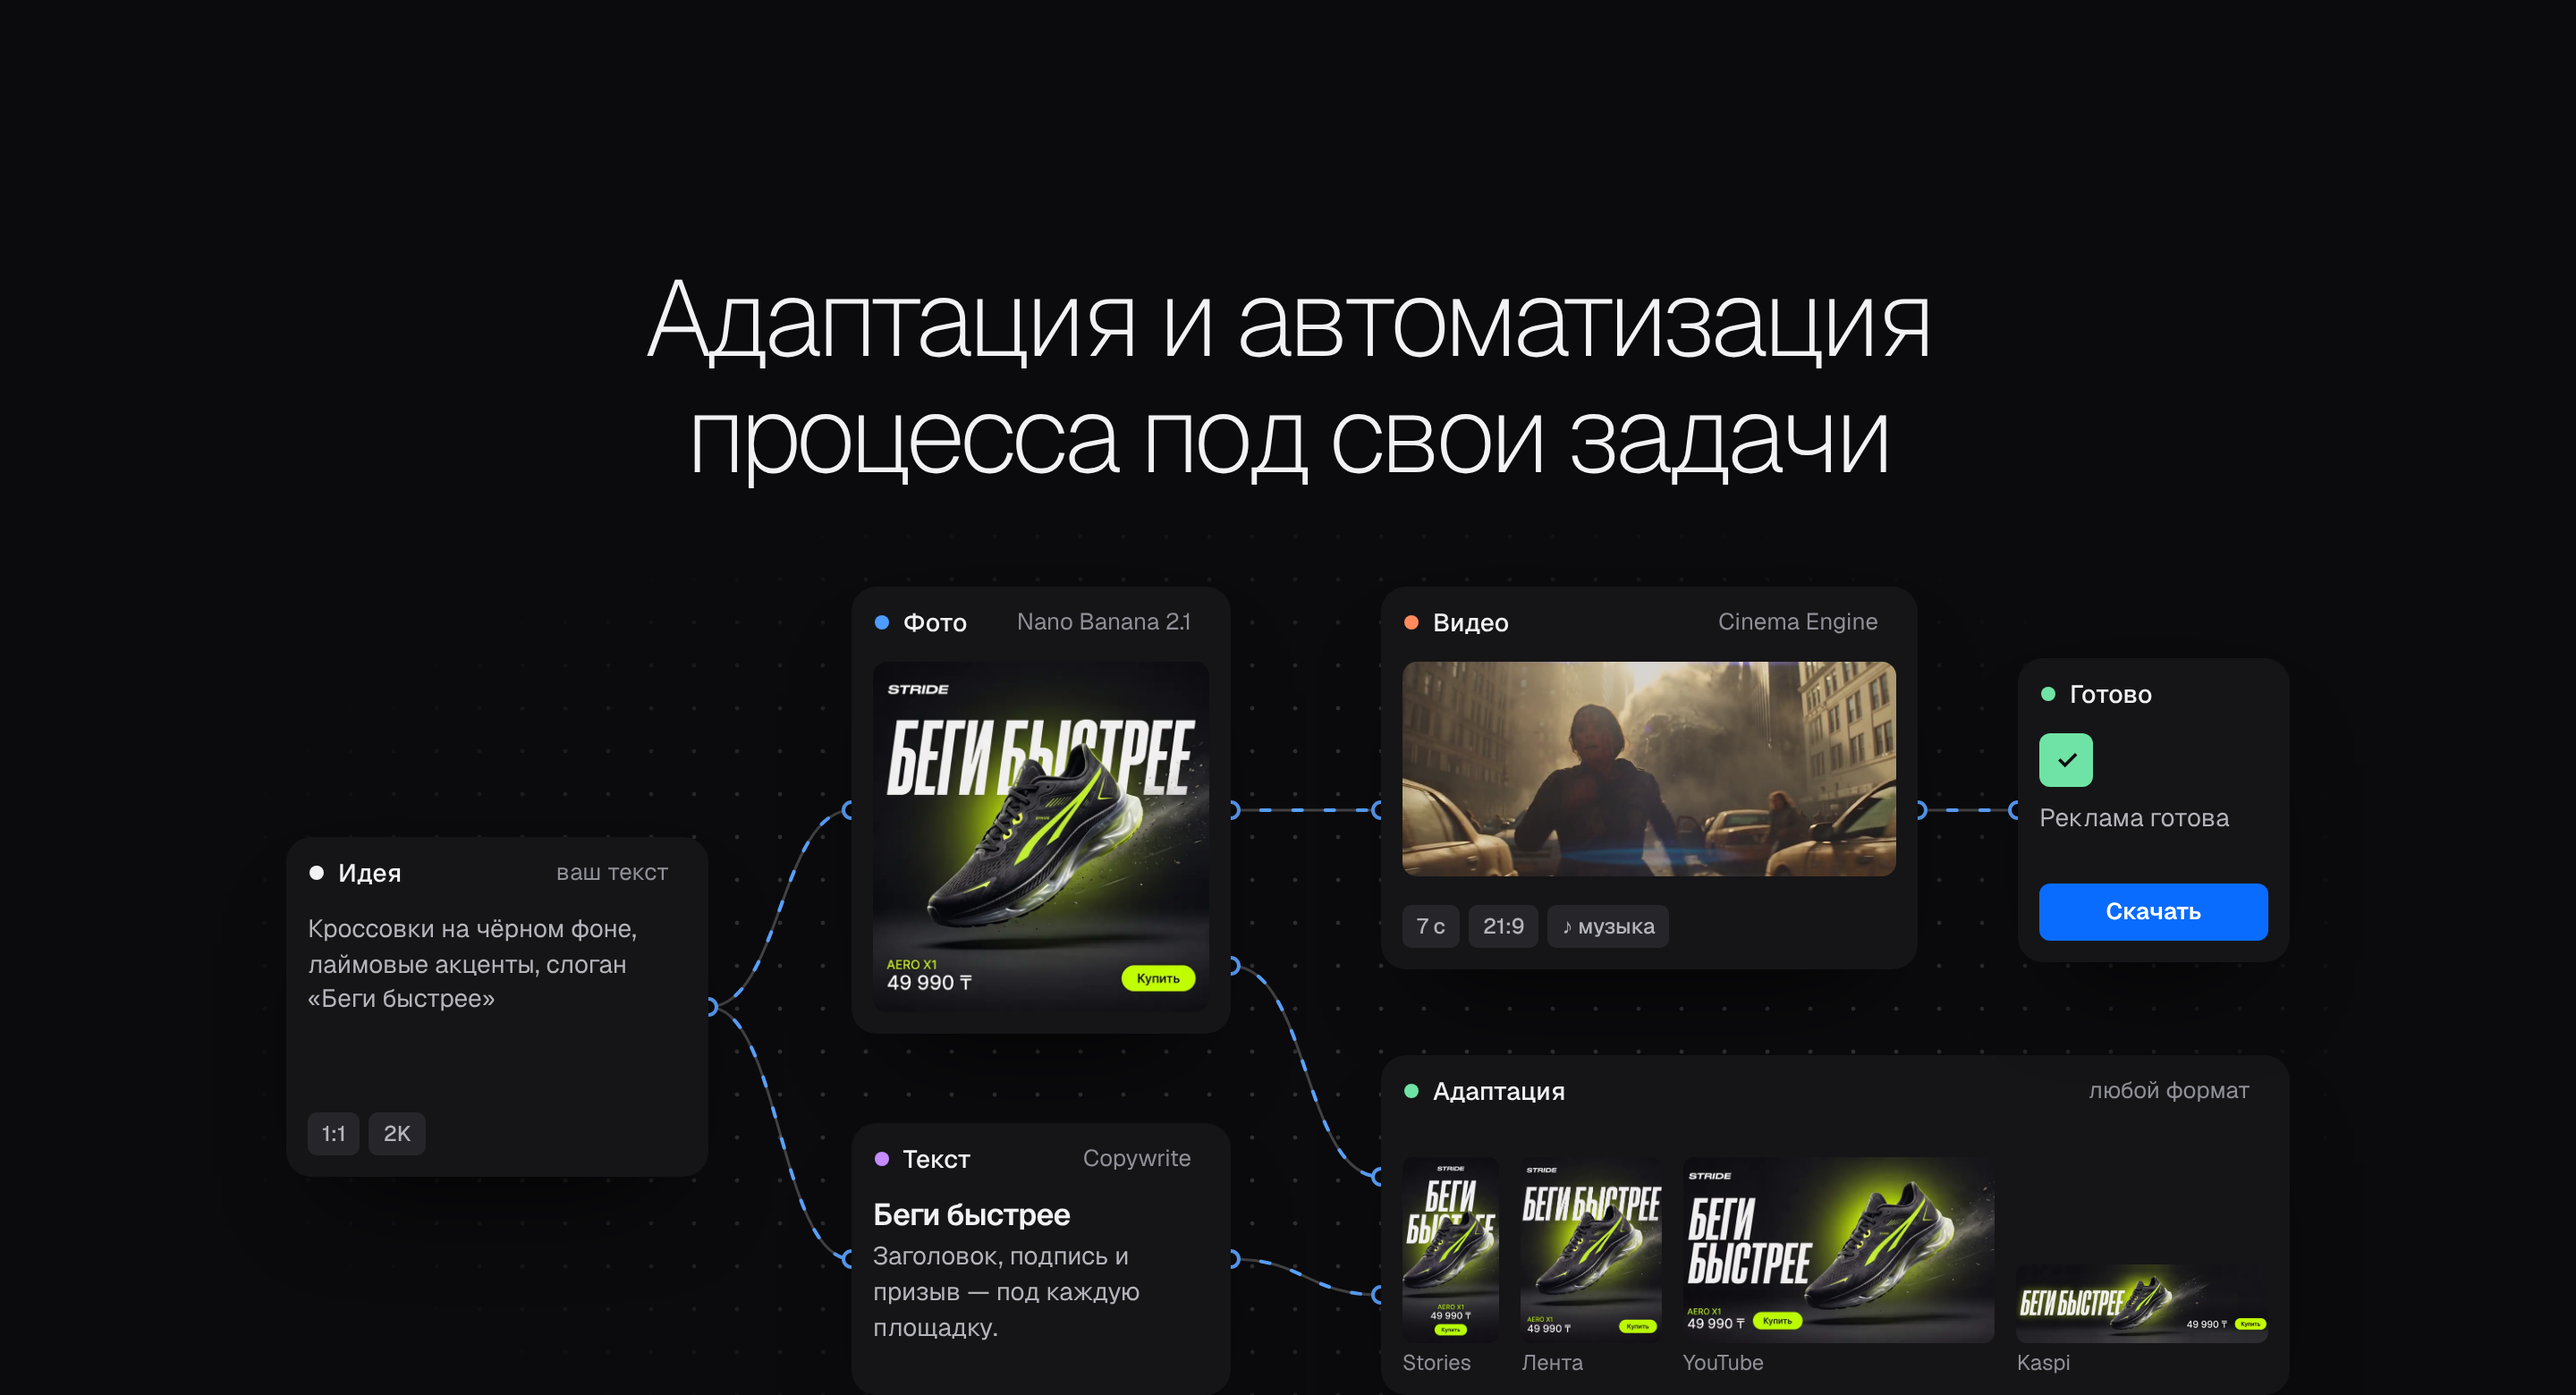
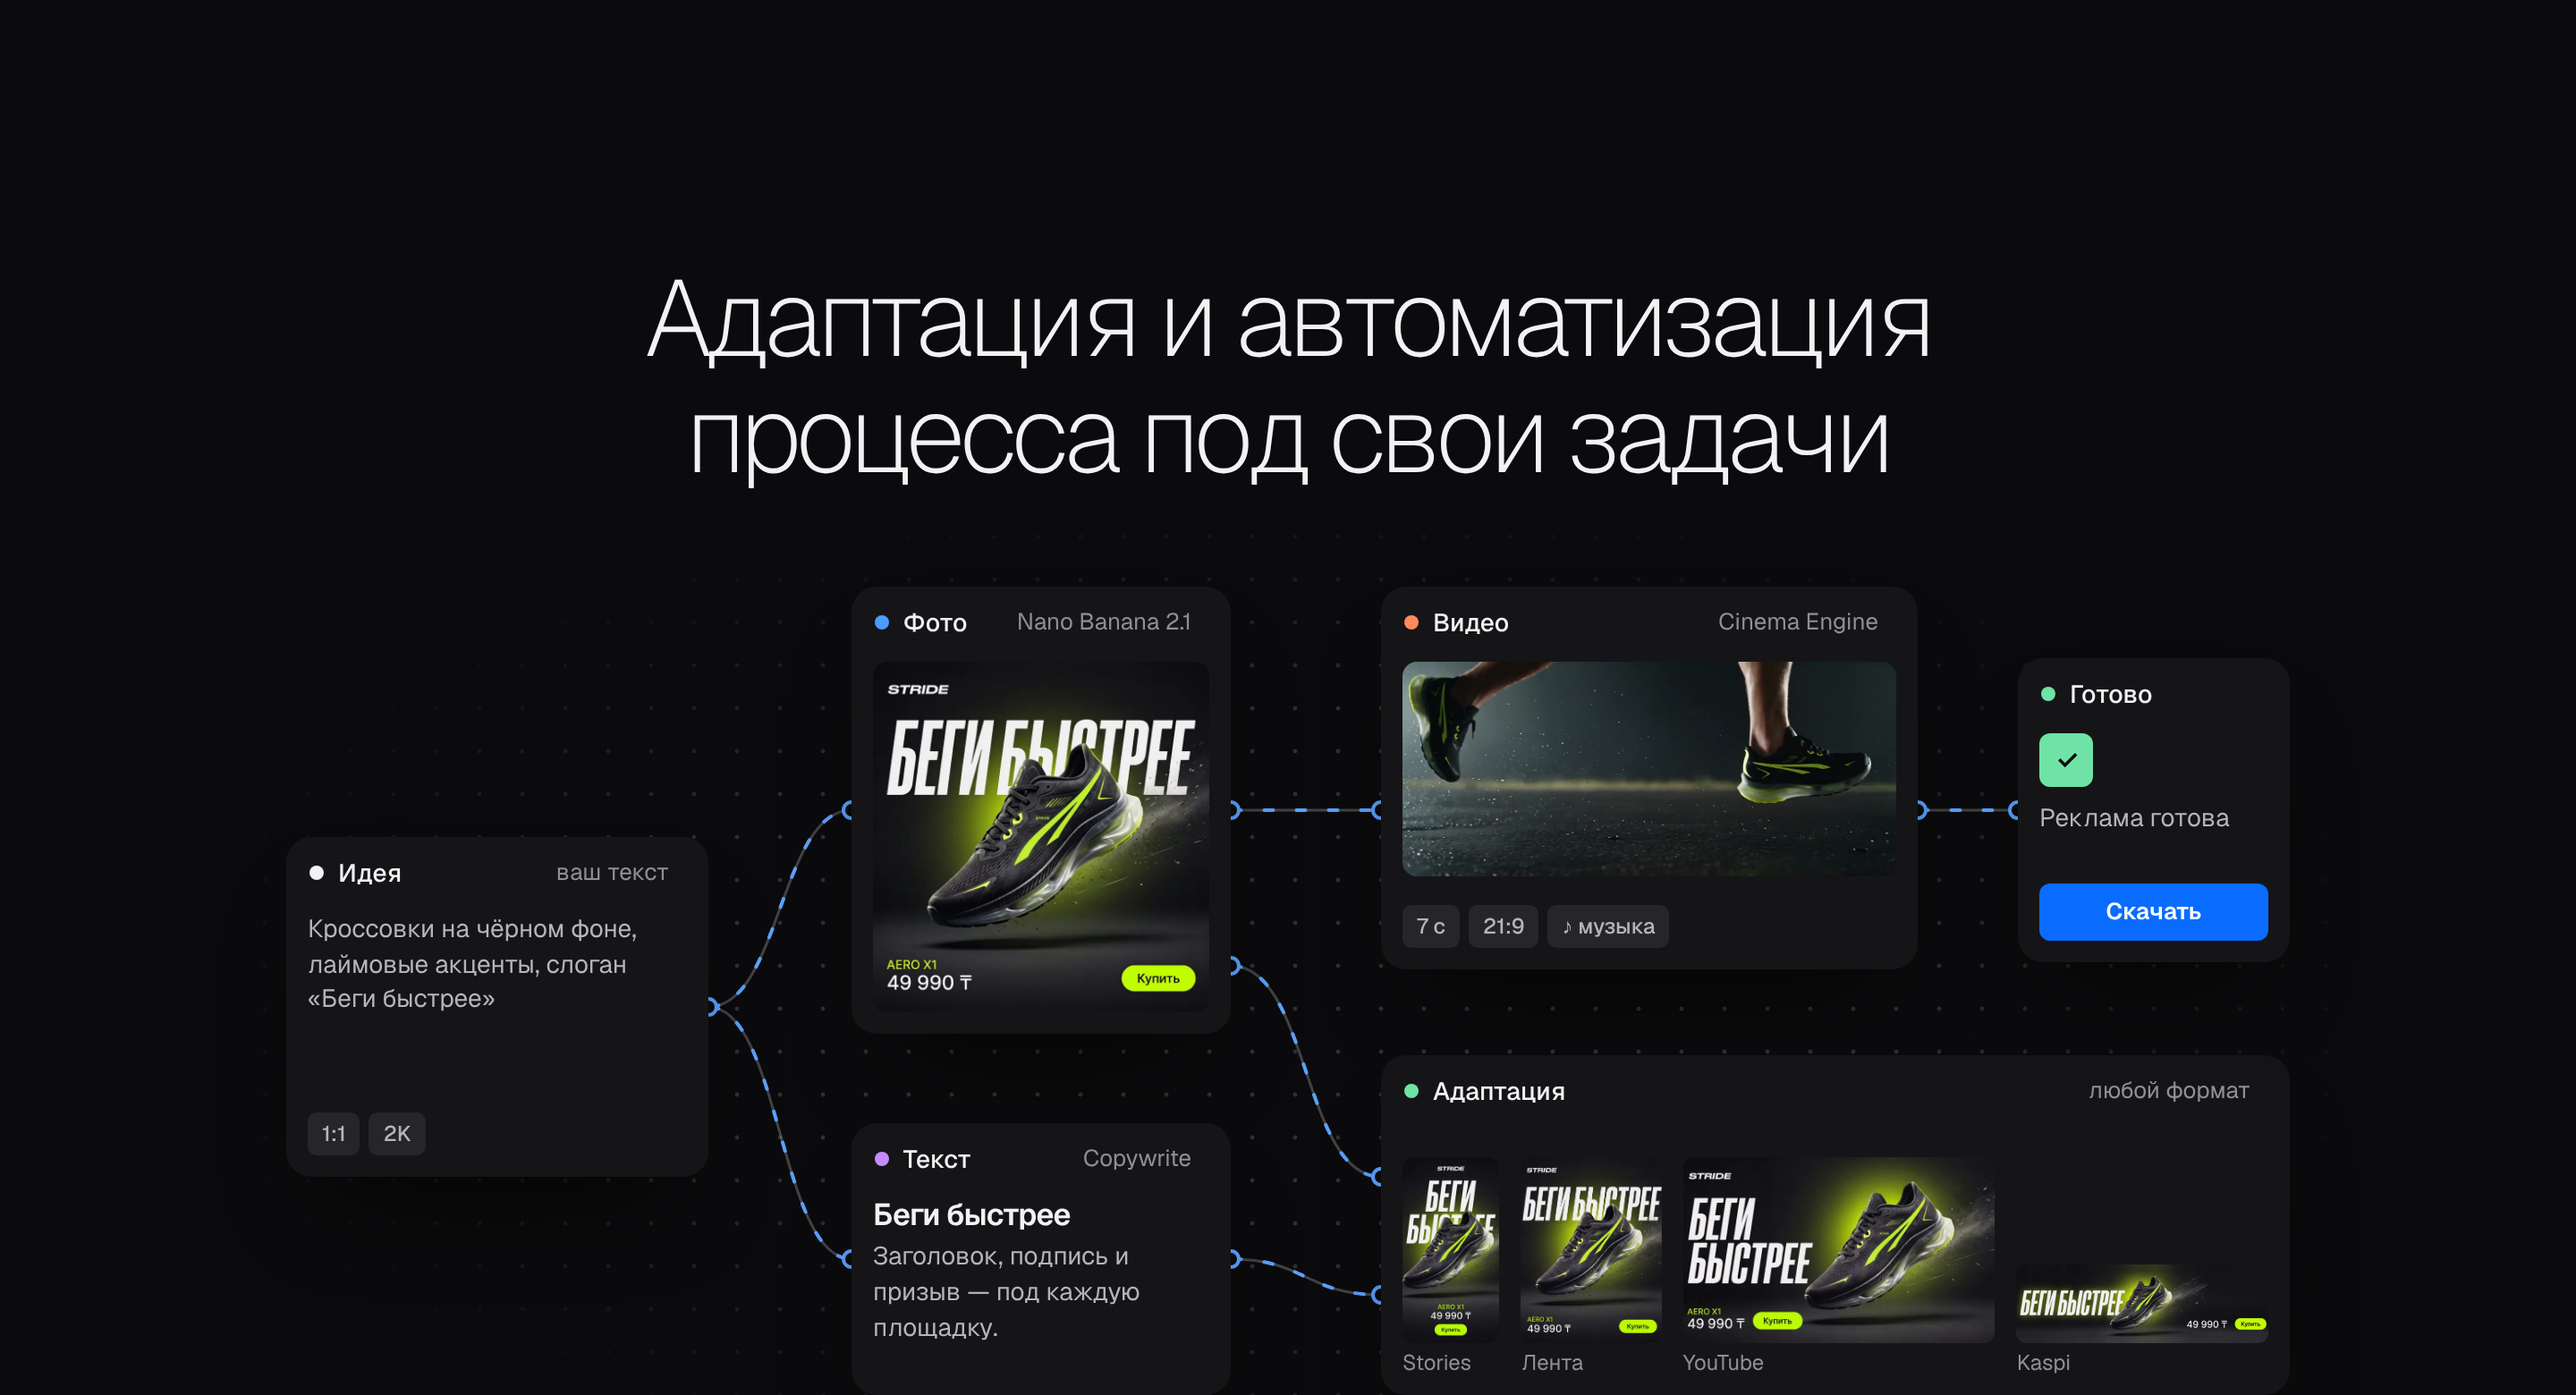
Hero draft: the flow section with the sneaker clip (v19.72)
Claude-Session: https://claude.ai/code/session_018a2KjtpEKLUTJU5P3jAt1D

Changed region(s): [[0.5312, 0.4615, 0.75, 0.6462]]

diff --git a/landing/hero_draft/patch_flow_section.py b/landing/hero_draft/patch_flow_section.py
@@ -24,8 +24,8 @@ EDGES = ['M236,235 C276,235 276,125 316,125', 'M236,235 C276,235 276,376 316,376
 PORTS = [(236, 235), (316, 125), (316, 376), (528, 125), (612, 125), (528, 212), (612, 330), (528, 376), (612, 396), (912, 125), (968, 125)]
 SVG = ('<svg viewBox="0 0 1120 452" aria-hidden="true">' + ''.join(f'<path d="{d}"/><path class="run" d="{d}"/>' for d in EDGES)
        + ''.join(f'<circle cx="{x}" cy="{y}" r="4.5"/>' for x, y in PORTS) + '</svg>')
-SCENE = ('<video autoplay muted loop playsinline preload="metadata" poster="/pe/scene.jpg" tabindex="-1">'
-         '<source src="/pe/scene.mp4" type="video/mp4"><source src="/pe/scene.webm" type="video/webm"></video>')
+SCENE = ('<video autoplay muted loop playsinline preload="metadata" poster="/pe/run.jpg" tabindex="-1">'
+         '<source src="/pe/run.mp4" type="video/mp4"><source src="/pe/run.webm" type="video/webm"></video>')
 
 
 def node(cls, color, title, model, body):
